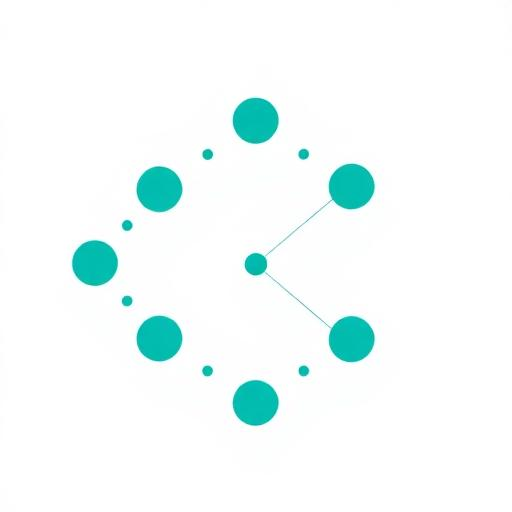
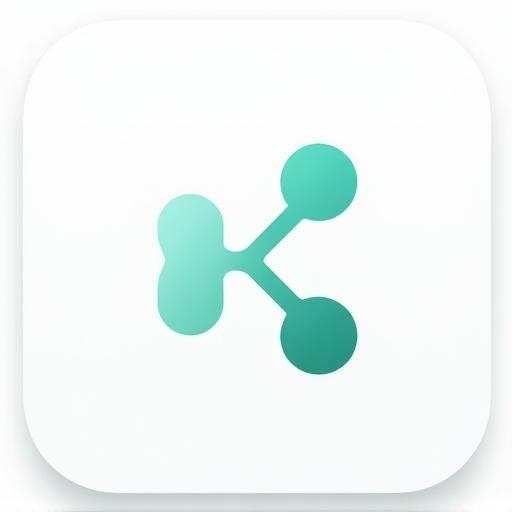
Changes

diff --git a/src/components/ui/KonnektLogo.tsx b/src/components/ui/KonnektLogo.tsx
@@ -1,0 +1,35 @@
+/**
+ * KonnektLogo — SVG connected-dots network logo
+ * Matches the PWA icon style: teal nodes connected by lines forming a K shape
+ */
+interface KonnektLogoProps {
+  size?: number;
+  className?: string;
+  color?: string;
+}
+
+export function KonnektLogo({ size = 24, className = "", color = "hsl(168, 60%, 42%)" }: KonnektLogoProps) {
+  return (
+    <svg
+      width={size}
+      height={size}
+      viewBox="-50 -50 100 100"
+      className={className}
+      fill="none"
+    >
+      {/* Lines connecting nodes */}
+      <line x1={-18} y1={-28} x2={-18} y2={0} stroke={color} strokeWidth={3} strokeLinecap="round" />
+      <line x1={-18} y1={0} x2={-18} y2={28} stroke={color} strokeWidth={3} strokeLinecap="round" />
+      <line x1={-18} y1={0} x2={8} y2={0} stroke={color} strokeWidth={3} strokeLinecap="round" />
+      <line x1={8} y1={0} x2={24} y2={-20} stroke={color} strokeWidth={3} strokeLinecap="round" />
+      <line x1={8} y1={0} x2={24} y2={20} stroke={color} strokeWidth={3} strokeLinecap="round" />
+      {/* Nodes */}
+      <circle cx={-18} cy={-28} r={5} fill={color} />
+      <circle cx={-18} cy={0} r={6} fill={color} />
+      <circle cx={-18} cy={28} r={5} fill={color} />
+      <circle cx={8} cy={0} r={4} fill={color} />
+      <circle cx={24} cy={-20} r={4.5} fill={color} />
+      <circle cx={24} cy={20} r={4.5} fill={color} />
+    </svg>
+  );
+}

diff --git a/src/components/layout/AppHeader.tsx b/src/components/layout/AppHeader.tsx
@@ -1,6 +1,7 @@
 import { Link, useNavigate, useLocation } from "react-router-dom";
 import { motion, AnimatePresence } from "framer-motion";
-import { Package, Menu, ChevronLeft, LogIn, ScanLine, Wallet } from "lucide-react";
+import { Menu, ChevronLeft, LogIn, ScanLine, Wallet } from "lucide-react";
+import { KonnektLogo } from "@/components/ui/KonnektLogo";
 import { Button } from "@/components/ui/button";
 import { NotificationBell } from "@/components/notifications/NotificationBell";
 import { useUserRole } from "@/hooks/useUserRole";
@@ -94,7 +95,7 @@ export function AppHeader({
                 whileTap={{ scale: 0.95 }}
                 className={`w-8 h-8 rounded-lg ${logoBackground} flex items-center justify-center shadow-sm`}
               >
-                <Package className={`w-4 h-4 ${logoColor}`} />
+                <KonnektLogo size={20} color={logoColor === "text-white" ? "white" : "hsl(168, 60%, 42%)"} />
               </motion.div>
               {!title && (
                 <div className="flex items-center gap-1">

diff --git a/src/components/home/KonnektCanvasCarousel.tsx b/src/components/home/KonnektCanvasCarousel.tsx
@@ -36,7 +36,7 @@ export function KonnektCanvasCarousel() {
               <img
                 src={slide.src}
                 alt={slide.alt}
-                className="w-full aspect-[16/9] object-cover rounded-2xl"
+                className="w-full aspect-[2.5/1] object-cover rounded-2xl"
                 loading={idx === 0 ? "eager" : "lazy"}
               />
             </div>
